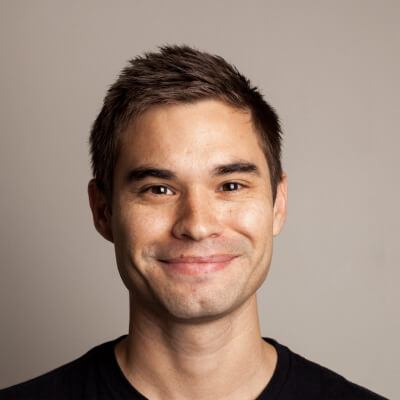
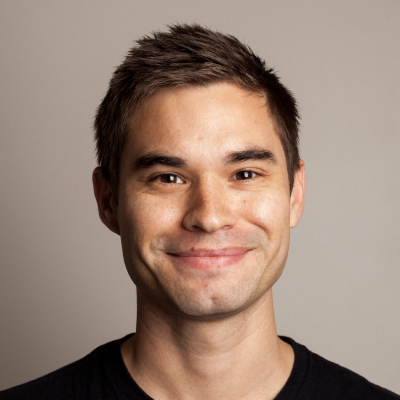
Added Paul to team page, updated 2 photos, cleaned up titles

diff --git a/packages/website/ts/pages/about/team.tsx b/packages/website/ts/pages/about/team.tsx
@@ -21,7 +21,7 @@ const team: TeamMember[] = [
     {
         imageUrl: '/images/team/willw.jpg',
         name: 'Will Warren',
-        title: 'co-founder & CEO',
+        title: 'Co-founder & CEO',
     },
     {
         imageUrl: '/images/team/amirb.jpg',
@@ -31,142 +31,147 @@ const team: TeamMember[] = [
     {
         imageUrl: '/images/team/fabiob.jpg',
         name: 'Fabio Berger',
-        title: 'engineering manager',
+        title: 'Engineering Manager',
     },
     {
         imageUrl: '/images/team/alexv.jpg',
         name: 'Alex Xu',
-        title: 'Director of operations',
+        title: 'Director of Operations',
     },
     {
         imageUrl: '/images/team/leol.jpg',
         name: 'Leonid Logvinov',
-        title: 'engineer',
+        title: 'Engineer',
     },
     {
         imageUrl: '/images/team/benb.jpg',
         name: 'Ben Burns',
-        title: 'designer',
+        title: 'Designer',
     },
     {
         imageUrl: '/images/team/brandonm.jpg',
         name: 'Brandon Millman',
-        title: 'senior engineer',
+        title: 'Senior Engineer',
     },
     {
         imageUrl: '/images/team/toms.jpg',
         name: 'Tom Schmidt',
-        title: 'product lead',
+        title: 'Product Lead',
     },
     {
         imageUrl: '/images/team/jacobe.jpg',
         name: 'Jacob Evans',
-        title: 'ecosystem engineer',
+        title: 'Ecosystem Engineer',
     },
     {
         imageUrl: '/images/team/blake.jpg',
         name: 'Blake Henderson',
-        title: 'ecosystem programs lead',
+        title: 'Ecosystem Programs Lead',
     },
     {
         imageUrl: '/images/team/zack.jpg',
         name: 'Zack Skelly',
-        title: 'lead recruiter',
+        title: 'Lead Recruiter',
     },
     {
         imageUrl: '/images/team/greg.jpg',
         name: 'Greg Hysen',
-        title: 'blockchain engineer',
+        title: 'Blockchain Engineer',
     },
     {
         imageUrl: '/images/team/remcoB.jpg',
         name: 'Remco Bloemen',
-        title: 'technical fellow',
+        title: 'Technical Fellow',
     },
     {
         imageUrl: '/images/team/francesco.jpg',
         name: 'Francesco Agosti',
-        title: 'engineer',
+        title: 'Engineer',
     },
     {
         imageUrl: '/images/team/melo.jpg',
         name: 'Mel Oberto',
-        title: 'people operations specialist',
-    },
-    {
-        imageUrl: '/images/team/alexb.jpg',
-        name: 'Alex Browne',
-        title: 'senior engineer',
-    },
-    {
-        imageUrl: '/images/team/peterz.jpg',
-        name: 'Peter Zeitz',
-        title: 'research fellow',
+        title: 'People Operations Specialist',
     },
     {
         imageUrl: '/images/team/chrisk.jpg',
         name: 'Chris Kalani',
-        title: 'director of design',
+        title: 'Director of Design',
+    },
+    {
+        imageUrl: '/images/team/alexb.jpg',
+        name: 'Alex Browne',
+        title: 'Senior Engineer',
+    },
+    {
+        imageUrl: '/images/team/peterz.jpg',
+        name: 'Peter Zeitz',
+        title: 'Research Fellow',
     },
     {
         imageUrl: '/images/team/clayr.jpg',
         name: 'Clay Robbins',
-        title: 'ecosystem development lead',
+        title: 'Ecosystem Development Lead',
     },
     {
         imageUrl: '/images/team/mattt.jpg',
         name: 'Matt Taylor',
-        title: 'marketing lead',
+        title: 'Marketing Lead',
     },
     {
         imageUrl: '/images/team/eugenea.jpg',
         name: 'Eugene Aumson',
-        title: 'engineer',
+        title: 'Engineer',
     },
     {
         imageUrl: '/images/team/weijew.jpg',
         name: 'Weijie Wu',
-        title: 'research fellow',
+        title: 'Research Fellow',
     },
     {
         imageUrl: '/images/team/rahuls.jpg',
         name: 'Rahul Singireddy',
-        title: 'relayer success manager',
+        title: 'Relayer Success Manager',
     },
     {
         imageUrl: '/images/team/jasons.jpg',
         name: 'Jason Somensatto',
-        title: 'strategic legal counsel',
+        title: 'Strategic Legal Counsel',
     },
     {
         imageUrl: '/images/team/steve.jpg',
         name: 'Steve Klebanoff',
-        title: 'senior engineer',
+        title: 'Senior Engineer',
     },
     {
         imageUrl: '/images/team/xiannyn.jpg',
         name: 'Xianny Ng',
-        title: 'engineer',
+        title: 'Engineer',
     },
     {
         imageUrl: '/images/team/brento.jpg',
         name: 'Brent Oshiro',
-        title: 'community engagement lead',
+        title: 'Community Engagement Lead',
     },
     {
         imageUrl: '/images/team/marcs.jpg',
         name: 'Marc Savino',
-        title: 'technical sourcer',
+        title: 'Technical Sourcer',
     },
     {
         imageUrl: '/images/team/danielp.png',
         name: 'Daniel Pyrathon',
-        title: 'engineer',
+        title: 'Engineer',
     },
     {
         imageUrl: '/images/team/lawrencef.jpg',
         name: 'Lawrence Forman',
-        title: 'engineer',
+        title: 'Engineer',
+    },
+    {
+        imageUrl: '/images/team/paulv.jpg',
+        name: 'Paul Vienhage',
+        title: 'Research Engineer',
     },
 ];
 
@@ -254,7 +259,7 @@ const Member = ({ name, title, imageUrl }: TeamMember) => (
     <StyledMember>
         <img src={imageUrl} alt={name} />
         <Name>{name}</Name>
-        <MemberTitle isMuted={0.5} size={14} style={{ textTransform: 'capitalize' }}>
+        <MemberTitle isMuted={0.5} size={14}>
             {title}
         </MemberTitle>
     </StyledMember>
